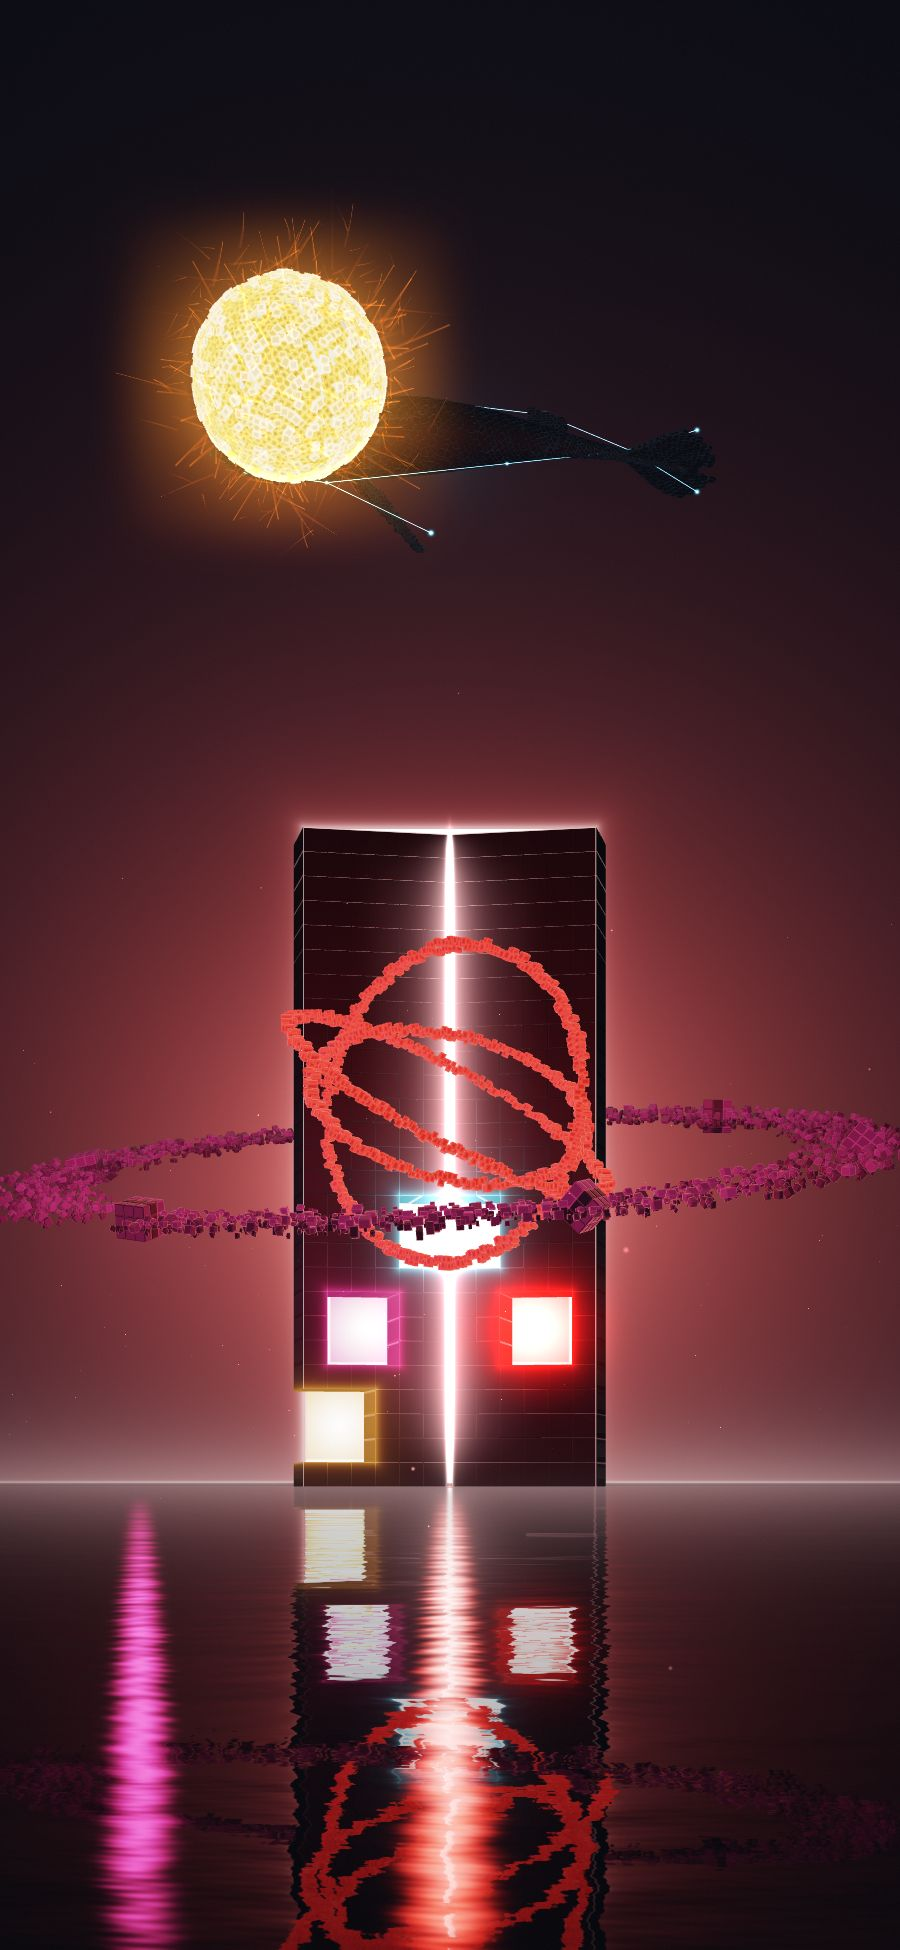
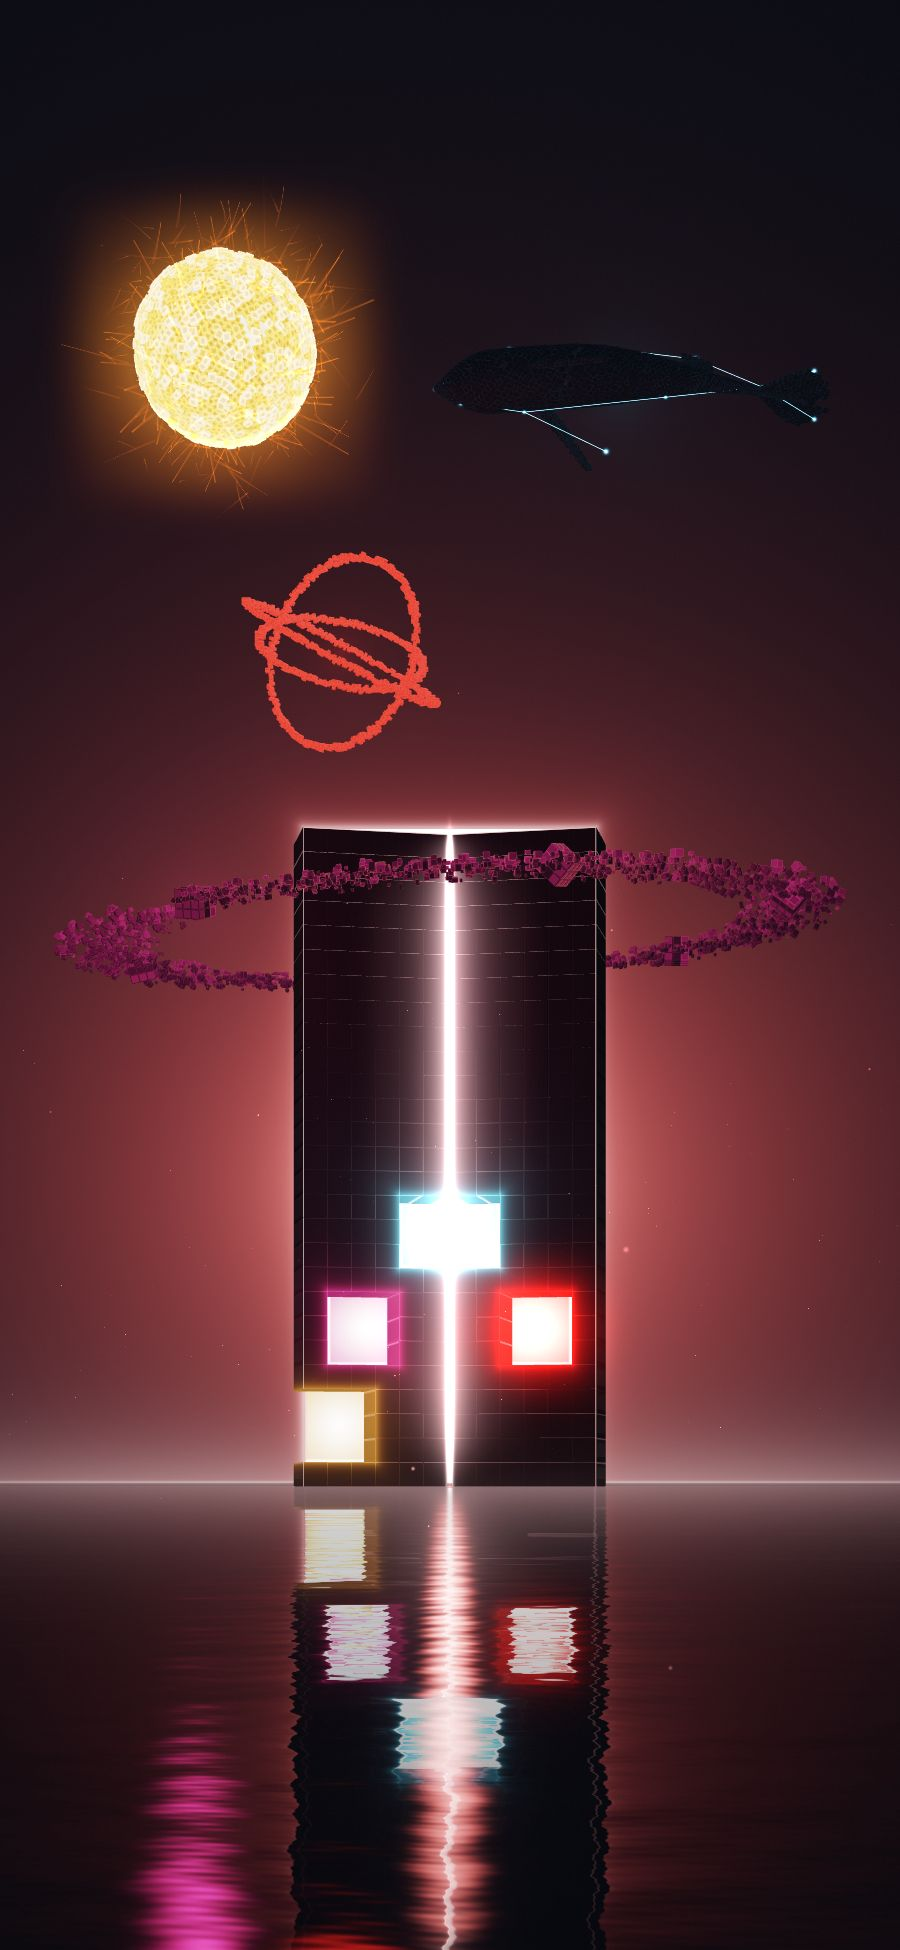
零肉身造物 v3.4：交货截图脚本、竖版静态图重拍、黑屏回归看画面那张图是不是新建的；工作流预览认 zero-v3-4
- scripts/v34-shots.mjs + v34-sheet.py：四个手机竖屏 × 第二到第七幕、390×844 英文一套、Song 那一幕（P 5.15）改前改后
- scripts/stills.mjs 加 ONLY=p，重拍竖版静态图第三到第七幕（第一、二幕没动，不换）
- v34-check 黑屏回归：每一步看画面那张图尺寸跟画布 × 分辨率对不对、尺寸变了是不是新建的（改回 setSize 就报）
- zero.yml：推 zero-v3-4 只跑预览（v3.4 验收、交货截图、七幕、真点、v3.3 交互验收），结果提交到 _ops/零肉身造物/v3.4截图/预览/；
  并进 main 以后线上也跑 v3.4 验收和交货截图；手动跑勾 commit_shots 提交到 v3.4截图/线上/
- _zero/README.md 补 v3.4

Claude-Session: https://claude.ai/code/session_01KCV9xu4Waduk2UBcQkjYVs

diff --git a/_zero/src/scene/genesis.ts b/_zero/src/scene/genesis.ts
@@ -1228,6 +1228,8 @@ export function createGenesis(opts: GenesisOpts) {
     get wordsMs() { return wordsMs; },
     get textDpr() { return sceneRT ? textDpr : dpr; },
     get rt() { return !!sceneRT; },
+    /** v3.4 验收（黑屏回归）：画面那张图现在多大、是第几张（尺寸一变就该是新建的一张，不是 setSize 改的那张） */
+    get rtInfo() { return sceneRT ? { w: sceneRT.width, h: sceneRT.height, id: sceneRT.texture.id, dpr, cw: size.w, ch: size.h } : null; },
     setTextOn(on: boolean) { textOn = on; },
     get frames() { return frames; },
     get dpr() { return dpr; },

diff --git a/_zero/src/home/home.ts b/_zero/src/home/home.ts
@@ -989,6 +989,7 @@ async function boot() {
     overlapScan: (o: { from?: number; to?: number; step?: number; clocks?: number[]; minGap?: number }) => g?.overlapScan(o),
     phone: () => g?.phoneLay,
     built: () => (g ? { ...g.built } : null),
+    rt: () => g?.rtInfo ?? null,
     hideText: (h: boolean) => g?.words.setHidden(h),
     project: (p: V3) => g?.project(p),
     orbitPoint: (j: number, u: number) => g?.orbitPoint(j, u),

diff --git a/_zero/scripts/v34-sheet.py b/_zero/scripts/v34-sheet.py
@@ -1,0 +1,60 @@
+# v3.4 交货图（v34-shots.mjs 截的）拼成几张看的图，原图转成 JPG：
+#   <内核>-v34-总览.jpg        行 = 四个手机竖屏（中文），列 = 第二到第七幕的展示位置
+#   <内核>-v34-英文-390x844.jpg  390×844 英文那一套，一行
+#   <内核>-Song那一幕-改前改后.jpg  390×844 第六幕刚开头（P 5.15），左改前（v3.3）、右改后（v3.4），原大
+#   原图/<文件名>.jpg           每张原图（质量 90；PNG 几十张太压仓库）
+# 跑法：python3 scripts/v34-sheet.py <截图目录> <输出目录>    要 Pillow
+import json, os, sys
+from PIL import Image, ImageDraw
+
+src, dst = sys.argv[1], sys.argv[2]
+os.makedirs(os.path.join(dst, '原图'), exist_ok=True)
+rep = json.load(open(os.path.join(src, 'shots.json'), encoding='utf-8'))
+rows = [r for r in rep['rows'] if r.get('file') and os.path.exists(os.path.join(src, r['file'] + '.png'))]
+ACTS = [2, 3, 4, 5, 6, 7]
+NAME = {2: '2', 3: '3', 4: '4', 5: '5', 6: '6', 7: '7'}
+
+
+def grid(items, keys, H, path):
+    cw = {k: round(H * int(k.split('x')[0]) / int(k.split('x')[1])) for k in keys}
+    colw = max(cw.values())
+    sheet = Image.new('RGB', (8 + len(ACTS) * (colw + 8), 8 + len(keys) * (H + 8)), (22, 22, 22))
+    dr = ImageDraw.Draw(sheet)
+    for i, k in enumerate(keys):
+        for r in items:
+            if r['size'] != k or r['act'] not in ACTS:
+                continue
+            c = ACTS.index(r['act'])
+            im = Image.open(os.path.join(src, r['file'] + '.png')).convert('RGB').resize((cw[k], H), Image.LANCZOS)
+            x, y = 8 + c * (colw + 8), 8 + i * (H + 8)
+            sheet.paste(im, (x, y))
+            bad = r.get('errors') or r.get('overflow')
+            dr.text((x + 4, y + 3), f"{k} act {NAME[r['act']]}{' !' if bad else ''}", fill=(255, 96, 96) if bad else (210, 210, 210))
+    sheet.save(path, quality=86)
+
+
+for eng in sorted({r['engine'] for r in rows}):
+    mine = [r for r in rows if r['engine'] == eng]
+    zh = [r for r in mine if r['lang'] == 'zh' and r['act'] in ACTS]
+    keys = []
+    for r in zh:
+        if r['size'] not in keys:
+            keys.append(r['size'])
+    grid(zh, keys, 420, os.path.join(dst, f'{eng}-v34-总览.jpg'))
+    en = [r for r in mine if r['lang'] == 'en' and r['act'] in ACTS]
+    if en:
+        grid(en, ['390x844'], 520, os.path.join(dst, f'{eng}-v34-英文-390x844.jpg'))
+    pair = {r.get('tag'): r for r in mine if r['act'] == 'song'}
+    if '改前' in pair and '改后' in pair:
+        a = Image.open(os.path.join(src, pair['改前']['file'] + '.png')).convert('RGB')
+        b = Image.open(os.path.join(src, pair['改后']['file'] + '.png')).convert('RGB')
+        sheet = Image.new('RGB', (a.width + b.width + 24, max(a.height, b.height) + 30), (22, 22, 22))
+        sheet.paste(a, (8, 30))
+        sheet.paste(b, (a.width + 16, 30))
+        dr = ImageDraw.Draw(sheet)
+        dr.text((12, 8), f"before (v3.3)  390x844  P {pair['改前']['P']}", fill=(230, 230, 230))
+        dr.text((a.width + 20, 8), f"after (v3.4)  390x844  P {pair['改后']['P']}", fill=(230, 230, 230))
+        sheet.save(os.path.join(dst, f'{eng}-Song那一幕-改前改后.jpg'), quality=90)
+    for r in mine:
+        Image.open(os.path.join(src, r['file'] + '.png')).convert('RGB').save(os.path.join(dst, '原图', r['file'] + '.jpg'), quality=90)
+    print(eng, len(mine), '张')

diff --git a/_zero/README.md b/_zero/README.md
@@ -1,8 +1,20 @@
 # 零肉身造物（Zero-Flesh Creation）· 源码
 
-首页（造物之门 v3.3）：https://qianshoulab.github.io/zero/ 。根目录 / 11-28 起也是这个首页（`home.mjs` 里 `HOME_AT_ROOT = true`，Song 13:41 定的）；换不换只看那一行。
+首页（造物之门 v3.4）：https://qianshoulab.github.io/zero/ 。根目录 / 11-28 起也是这个首页（`home.mjs` 里 `HOME_AT_ROOT = true`，Song 13:41 定的）；换不换只看那一行。
 栏目：/zahuopu/（赛博杂货铺；/zhahuopu/ 是头一版打错字的网址，留了跳转）、/specimens/（标本）、/artifacts/（文物）、/codex/（法典）。
 千手院在 /qianshou/，那页是手写的单文件，不归这里管。
+
+## v3.4（手机竖屏上造出来的东西别挤在一起）
+
+- **只管宽高比 < 0.8 的竖屏**（`timeline.ts` 的 `portraitOf`，一刀切；跟 v3.2 换竖版静态图同一条线，平板竖着也算）。≥ 0.8 的电脑、平板、手机横着一个数都不动（验收跟 v3.3 逐个数比过）。
+- **每一幕的落点**（`tune.ts` 的 `PHONE`）：日、鲸、器在第三到第六幕展示位置上停在屏幕哪 `[nx, ny, 离镜头多远]`，照 390×844 定，别的竖屏按「门顶到屏顶」那一截天等比挪、等比缩（`restAt`）。新一幕开头那一段（幕内 0.02–0.32）前面造好的东西挪到新落点，跟日「让位」一个节奏；新东西诞生那一下照原样演。
+  - 日：左上；鲸：游完一圈升到右边（第四幕在名字底下，第五、六幕挪到右上）；器：炸开以后从门前挪到门上方偏左，名字摆在它右边。
+  - 环：聚好以后升到门顶那一圈（`ringY`），收小一点（`ringS`）、放平一点（`ringTilt`，不然从下面看正好侧着、成一条线），第三幕的名字贴着它摆在门上方；鲸绕门游的时候从它底下过。
+  - 第六幕：手机上日、鲸、器不挂到轨道上转（屏太窄，转着转着总要撞上），停在自己的落点；三道轨道从器的三道环放大，绕着门顶那一圈（`PHONE.orbits`）。
+  - 第七幕手机这套（`SKY_PHONE`，v3.2 的摆法挪了一点）：鲸小一点、在天上兜的圈小一点，环挪一点；飞上去的时候往旁边甩得小一点（`swing` 的 `amp`）；平板竖着也用手机这套，鲸、环最大占屏高 15%、10%。
+- **名字**（`words.ts`）：竖屏上名字、「进去」压着别的造物一律不要（电脑照旧只扣分）。
+- **外圈和重叠检查**（`src/scene/marks.ts`）：日、器一个圆，鲸一根胶囊，环沿着环带一圈 32 段胶囊；轨道是线不算。`window.__zero.marksAt(P, 时钟)`、`overlapScan({...})`、`built()`、`rt()` 给验收用（只算数不画）。
+- 验收：`scripts/v34-check.mjs`（重叠检查：四个竖屏 × P 1–7 每 0.05 × 35 个时钟，造好的两两 ≥ 8 像素；名字不被压、不出屏；电脑跟改前一个数不差；黑屏回归：拉窄拉回、横竖切换、等它自己降档，每步量门那一块亮度、看画面那张图是不是新建的），`scripts/v34-shots.mjs` + `v34-sheet.py`（四个竖屏 × 第二到第七幕、英文一套、Song 那一幕改前改后）。`scripts/stills.mjs` 加了 `ONLY=p`（这次只重拍竖的）。工作流 `zero.yml`：推分支 `zero-v3-4` 只跑预览。
 
 ## v3.3（停手以后自己走到展示位置；星尘字）
 
